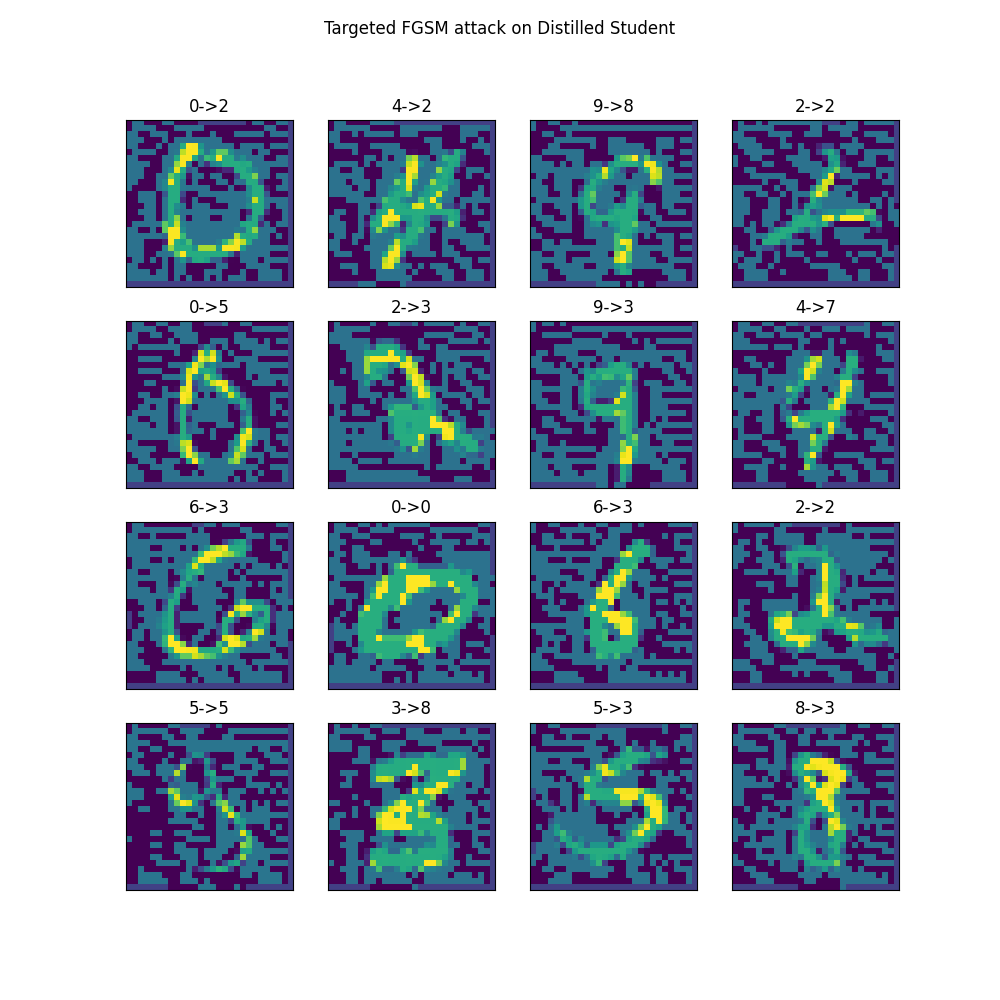
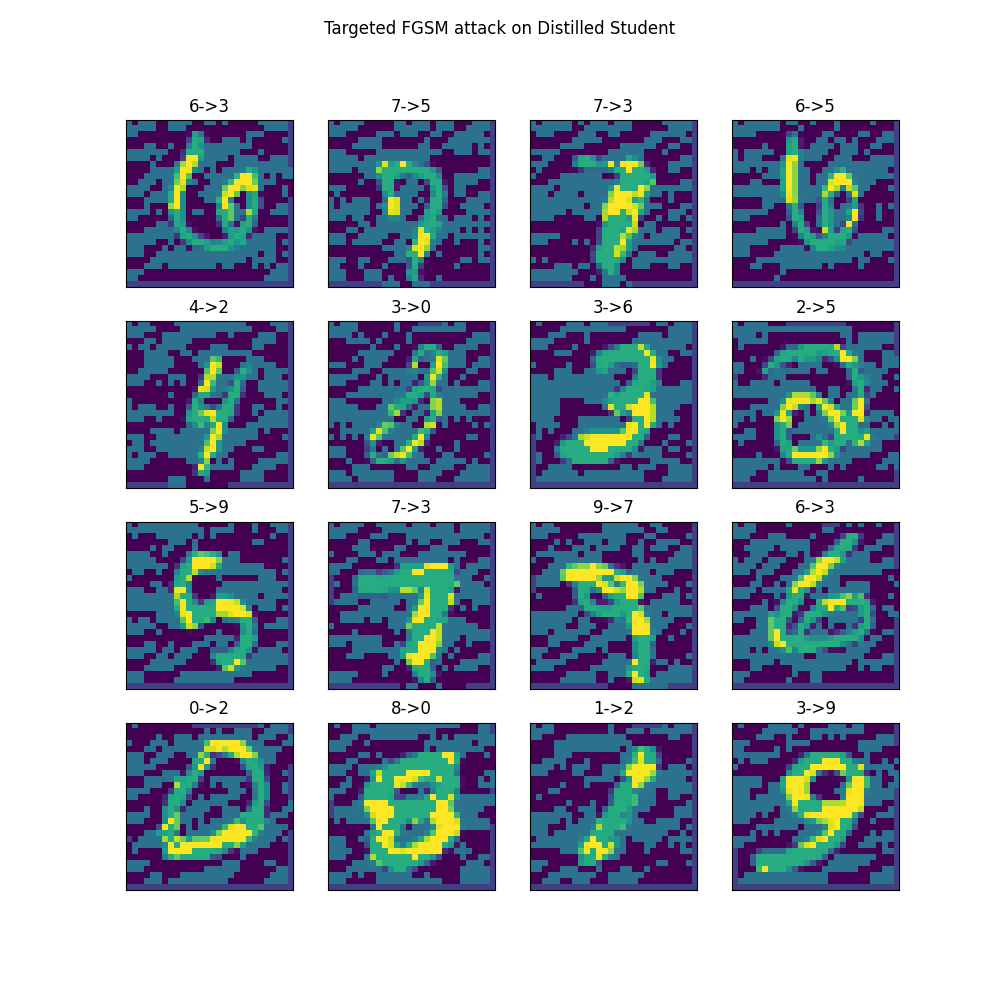
Attack the Binary classifier as well.

Changed region(s): [[0.124, 0.093, 0.496, 0.899], [0.527, 0.093, 0.899, 0.899]]

diff --git a/ex4/main.py b/ex4/main.py
@@ -5,7 +5,7 @@ import tensorflow as tf
 import matplotlib.pyplot as plt
 from tensorflow import keras
 from tensorflow.keras.losses import BinaryCrossentropy, CategoricalCrossentropy
-from common import MNIST_CLASSES, toCyan, toMagenta, RESULTS
+from common import RESULTS, MNIST_CLASSES, toCyan, toMagenta, toGreen
 from mnist_classifier import MNISTClassifierWithTemperature, \
     BinaryClassifierWithTemperature
 from distilled_networks_trainer import Distillery, MNISTTrainer, \
@@ -15,19 +15,26 @@ from attacks import AttackBenchmark, fast_gradient_sign_method, \
     plot_adversarial_images
 
 
+ATTACK_NAME_TO_ATTACK = {'FGSM attack': fast_gradient_sign_method,
+                         'Targeted FGSM attack': targeted_gradient_sign_method,
+                         'Non-targeted PGD attack': PGD_L2_non_targeted,
+                         'Targeted PGD attack': PGD_L2_targeted,
+                         }
+
 def benchmark_attack_on_training_scheme(attack,
                                         training_scheme: MNISTTrainer,
                                         is_targeted_attack: bool = False,
-                                        title: str = ''):
+                                        title: str = '',
+                                        num_of_classes=MNIST_CLASSES):
     benchmark = AttackBenchmark(training_scheme, attack)
     indices, images, labels = \
         benchmark.choose_random_samples_from_test_set()
     if is_targeted_attack:
         target = (np.argmax(labels, axis=1) +
                   np.random.randint(
-                      1, MNIST_CLASSES, size=(labels.shape[0]))) % \
-                 MNIST_CLASSES
-        target_labels = keras.utils.to_categorical(target, MNIST_CLASSES)
+                      1, num_of_classes, size=(labels.shape[0]))) % \
+                 num_of_classes
+        target_labels = keras.utils.to_categorical(target, num_of_classes)
         adversarial_images = benchmark.apply_attack(images, target_labels)
 
     else:
@@ -54,21 +61,14 @@ def evaluate_distillation_performance_for_mnist_classifier():
     classical_trainer = MNISTTrainer(simple_classifier)
     classical_trainer.initialize_dataset()
     classical_trainer.train(loss=CategoricalCrossentropy())
-    # define four types of attacks
-    attack_name_to_attack = {'FGSM attack': fast_gradient_sign_method,
-                             'Targeted FGSM attack':
-                                 targeted_gradient_sign_method,
-                             'Non-targeted PGD attack': PGD_L2_non_targeted,
-                             'Targeted PGD attack': PGD_L2_targeted,
-                             }
     # define the two learning schemes: classical and distilled
     scheme_name_to_classification_scheme = {
         'Simple Classifier': classical_trainer,
         'Distilled Student': distillery.student_trainer}
     # loop over the attacks and report performance
-    for attack_name in attack_name_to_attack:
+    for attack_name in ATTACK_NAME_TO_ATTACK:
         for scheme_name in scheme_name_to_classification_scheme:
-            attack = attack_name_to_attack[attack_name]
+            attack = ATTACK_NAME_TO_ATTACK[attack_name]
             scheme = scheme_name_to_classification_scheme[scheme_name]
             is_targeted_attack = attack_name.startswith("Targeted")
             title = f'{attack_name} on {scheme_name}'
@@ -143,6 +143,17 @@ def evaluate_distillation_performance_for_binary_classifier():
     distillery.distill(loss=BinaryCrossentropy(), epochs=5)
     # reset the student's temperature to 1 at inference time
     distillery.reset_student_temperature()
+    # loop over the attacks and report performance
+    for attack_name in ATTACK_NAME_TO_ATTACK:
+        attack = ATTACK_NAME_TO_ATTACK[attack_name]
+        scheme = distillery.student_trainer
+        is_targeted_attack = attack_name.startswith("Targeted")
+        title = f'{attack_name} on Distilled Binary Classification Student'
+        print(toGreen(title))
+        benchmark_attack_on_training_scheme(
+            attack, scheme, is_targeted_attack=is_targeted_attack,
+            title=title, num_of_classes=2)
+        print('=' * 20)
     # train a simple binary classifier
     simple_classifier = BinaryClassifierWithTemperature()
 

diff --git a/ex4/common.py b/ex4/common.py
@@ -11,3 +11,6 @@ def toCyan(content): return termcolor.colored(content, "cyan", attrs=["bold"])
 
 def toMagenta(content): return termcolor.colored(content, "magenta",
                                                  attrs=["bold"])
+
+def toGreen(content): return termcolor.colored(content, "green",
+                                               attrs=["bold"])
